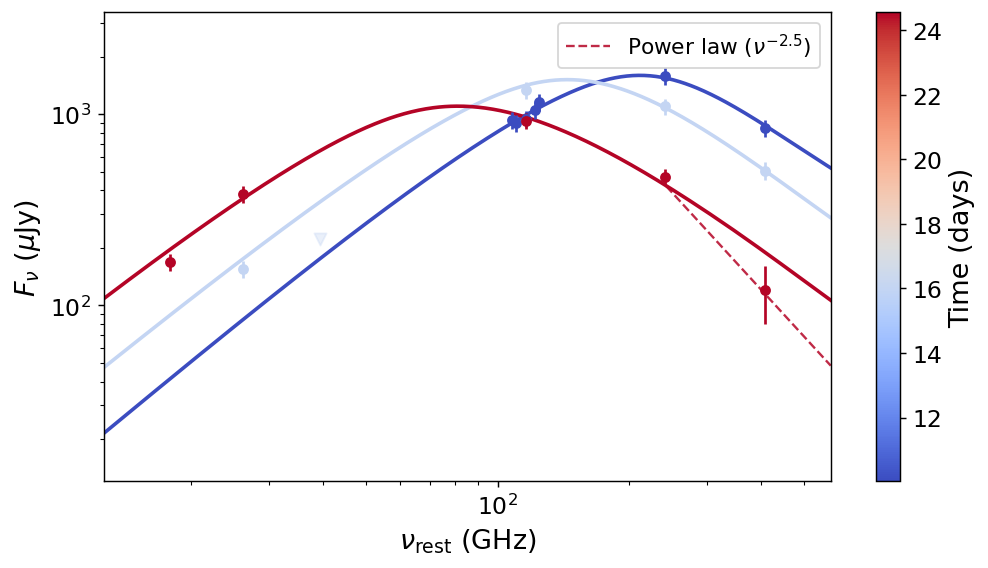
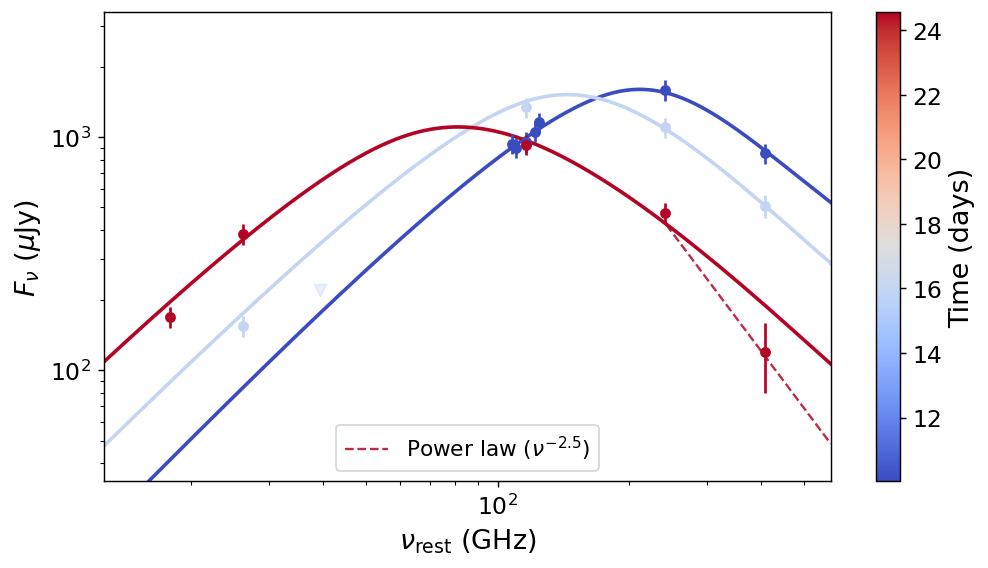
overlay plot updated to look more like Cassie's! 4

diff --git a/runSampler.py b/runSampler.py
@@ -1426,8 +1426,9 @@ def make_sed_overlay_plot(cfg, fixed):
 
     Y-limits: padded by whole DECADES (the standard log-axis major-tick
     unit) relative to the dimmest/brightest true DETECTION (non-detections/
-    promoted-upper-limit points don't count toward this) -- ~1 decade
-    below the dimmest, ~3 minor tick marks (~2.15x) above the brightest.
+    promoted-upper-limit points don't count toward this) -- ~5 minor tick
+    marks (~3.59x) below the dimmest, ~3 minor tick marks (~2.15x) above
+    the brightest.
 
     X-limits: set to exactly match the shared fit-curve frequency range
     (same range every epoch's curve is evaluated over), no extra padding
@@ -1560,7 +1561,9 @@ def make_sed_overlay_plot(cfg, fixed):
     # TRUE detection (not non-detections/promoted points)
     all_det_flux = np.concatenate(detection_flux_uJy)
     dimmest, brightest = all_det_flux.min(), all_det_flux.max()
-    y_lo = dimmest / 10.0                 # ~1 decade of room below the dimmest detection
+    y_lo = dimmest / 10.0 ** (5 / 9.0)    # ~5 minor tick marks of room below the dimmest
+                                            # detection (same 9-sub-intervals-per-decade
+                                            # convention as the top padding)
     y_hi = brightest * 10.0 ** (3 / 9.0)  # ~3 minor tick marks of room above the brightest
                                             # detection (log-scale minor ticks at 2x..9x
                                             # divide each decade into 9 sub-intervals, so
@@ -1581,7 +1584,7 @@ def make_sed_overlay_plot(cfg, fixed):
     # source) carry a `label=`, so this naturally shows just those --
     # no legend at all for sources/epochs with none configured.
     if OVERLAY_REFERENCE_SLOPES.get(source):
-        ax.legend(fontsize=12, loc="best")
+        ax.legend(fontsize=12, loc="lower center")
 
     fig.tight_layout()
     outpath = os.path.join(plots_rundir, f"{source}_sed_overlay.png")
